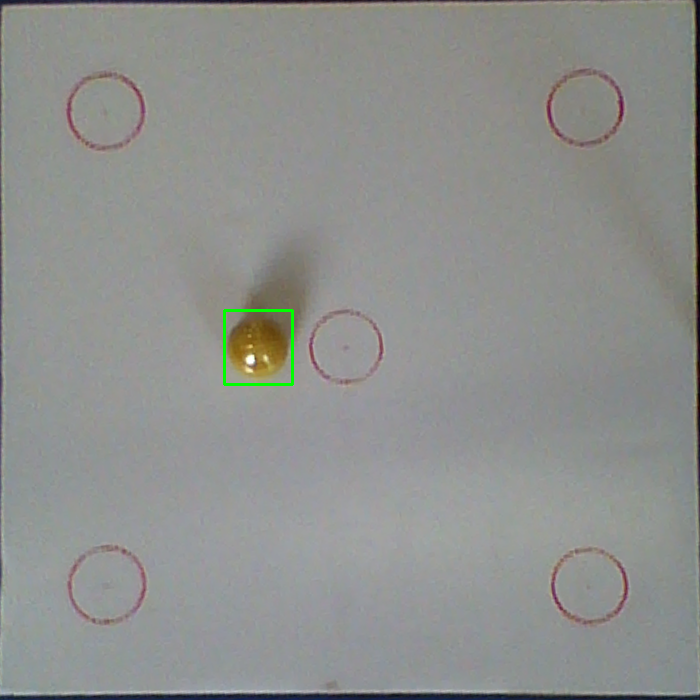
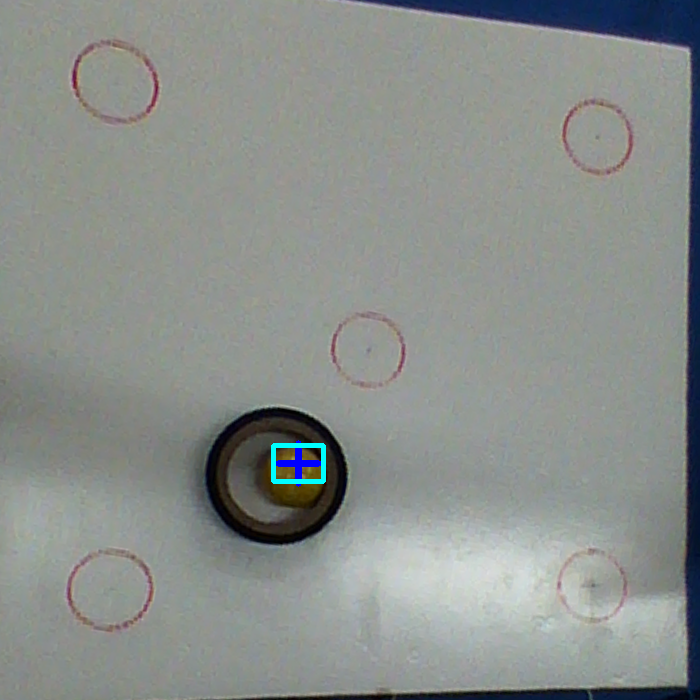
update

diff --git a/visual.py b/visual.py
@@ -1,6 +1,10 @@
 import cv2 as cv  
 import numpy as np 
 import serial
+from pid import PID 
+import time
+Pid = PID()
+
 
 
 def think(top_right,top_left,botto_left,botto_right,last_top_right,last_top_left,last_botto_left,last_botto_right):
@@ -19,11 +23,11 @@ def think(top_right,top_left,botto_left,botto_right,last_top_right,last_top_left
         error = 1
 
     src = np.float32([top_left,top_right,botto_left,botto_right])
-    
-   
+ 
+  
 
-lower = np.array([16, 98, 84])
-upper = np.array([155, 255 ,224])
+lower = np.array( [ 15, 127 ,106])
+upper = np.array([ 30 ,236 ,206]   )
 kernel = np.ones((5,5),np.uint8)
 cap = cv.VideoCapture(1)
 kernel = cv.getStructuringElement(cv.MORPH_CROSS,(9,9))
@@ -35,7 +39,7 @@ while True:
     ret,img = cap.read()
     canvas = np.copy(img)
     canvas1 = np.copy(img)
-    
+  
     img = cv.cvtColor(img,cv.COLOR_BGR2GRAY)
     gray = cv.medianBlur(img,5) 
     edges = cv.Canny(gray, 20, 90, apertureSize = 3)
@@ -51,10 +55,10 @@ while True:
             epsilon = 0.1*cv.arcLength(cnt,True)
             approx = cv.approxPolyDP(cnt,epsilon,True)
             try:
-                top_right = approx[0]
-                top_left = approx[1]
-                botto_left = approx[2]
-                botto_right = approx[3]
+                top_right = approx[2]
+                top_left = approx[3]
+                botto_left = approx[0]
+                botto_right = approx[1]
                 if a == 0:   # 刚开始 设置过去变量  等异常时用
 
                     last_top_right = top_right
@@ -78,6 +82,7 @@ while True:
 
             M = cv.getPerspectiveTransform(src,dst)
             img = cv.warpPerspective(canvas1,M,(700,700))
+            img = cv.flip(img,0)
             canvas3 = np.copy(img)
             img = cv.cvtColor(img,cv.COLOR_BGR2HSV)
             img = cv.inRange(img,lower,upper)
@@ -89,10 +94,18 @@ while True:
                 x,y,w,h = cv.boundingRect(cnt)
                 area = w*h
                 if area > 1000 :
-                    #print("x:",x,"y:",y)
-                    canvas3 = cv.rectangle(canvas3,(x,y),(x+w,y+h),(0,255,0),2)
-                    continue
-                           
+                    x_cen = int(x+w/2)
+                    y_cen = int(y+h/2)
+                    #print("x:",x_cen,"y:",y_cen)
+                    
+                    canvas3 = cv.line(canvas3,(x_cen-20,y_cen),(x_cen+20,y_cen),(255,0,0),5)
+                    canvas3 = cv.line(canvas3,(x_cen,y_cen-20),(x_cen,y_cen+20),(255,0,0),5)
+                    canvas3 = cv.rectangle(canvas3,(x,y),(x+w,y+h),(255,255,0),3)
+                    Pid.pid_x(x_cen) 
+                    Pid.pid_y(y_cen)
+                    #Pid.print_pwm()  
+                    Pid.send_pwm()
+                    
 
     cv.imshow("canvas",canvas3)
     key = cv.waitKey(1)

diff --git a/pid.py b/pid.py
@@ -1,0 +1,74 @@
+import math
+import numpy 
+import serial
+ser = serial.Serial('/dev/ttyUSB0',115200)
+class PID():
+
+    def __init__(self):
+        
+        self.kp_x = 0.3
+        self.ki_x = 0
+        self.kd_x = 0
+        self.kp_y = 1
+        self.ki_y = 0
+        self.kd_y = 0
+        
+        self.x_target = 355
+        self.y_target = 335
+
+        self.last_bias_x = 0
+        self.intergral_bias_x = 0
+        
+        self.last_bias_y = 0
+        self.intergral_bias_y = 0
+
+        self.pwm_y = 0
+        self.pwm_x = 0
+
+    def pid_x(self,coordinate_x):
+
+        bias = self.x_target - coordinate_x 
+        self.intergral_bias_x += bias
+        self.pwm_x = self.kp_x*bias + self.ki_x*self.intergral_bias_x + self.kd_x*(bias - self.last_bias_x)
+        self.last_bias_x = bias 
+        
+
+
+    def pid_y(self,coordinate_y):
+        
+        bias = self.y_target - coordinate_y 
+        self.intergral_bias_y += bias
+        self.pwm_y = self.kp_y*bias + self.ki_y*self.intergral_bias_x + self.kd_y*(bias - self.last_bias_y)
+        self.last_bias_y = bias 
+        
+
+    def print_pwm(self):
+        print("pwmx:",self.pwm_x,"pwmy:",self.pwm_y)
+
+    def send_pwm(self):
+        servo1 = 1000
+        if self.pwm_x >0:
+            servo1 = int(servo1 + self.pwm_x)
+
+        if self.pwm_x <0:
+            servo1 = int(servo1 + self.pwm_x)
+
+        if servo1 <1000:
+            servo1 = '0'+str(servo1)
+        else:
+            servo1 = str(servo1)
+        print(servo1)
+        if self.pwm_x >0:
+
+            bbb = "1000"+ "1100"
+        if self.pwm_x <0:
+
+            bbb = "1000"+ "0900"
+        
+        ser.write(bbb.encode())
+        
+        
+
+
+    
+

diff --git a/pidcheck.py b/pidcheck.py
@@ -1,0 +1,47 @@
+import numpy as np 
+import matplotlib.pyplot as plt
+
+kp = 2
+ki = 2
+kd = 6
+
+encode = None
+
+intergral_bias = 0
+last_bias = 0
+
+def pid(encode,Target):
+    global intergral_bias
+    global kp
+    global ki 
+    global kd 
+    global last_bias
+
+    bias = Target - encode 
+    intergral_bias += bias
+    pwm = kp*bias + ki*intergral_bias+kd*(bias - last_bias)
+    last_bias = bias
+
+    return pwm
+
+
+if __name__ == "__main__":
+
+
+    i = 0
+    encode_recode = []
+    encode = 0
+    while True:
+
+        Target = 200
+        pwm = pid(encode,Target)
+        encode += pwm*0.1
+        encode_recode.append(encode)
+        i+=1
+        
+        if i ==200:
+            #print(encode_recode)
+            break
+    plt.plot(encode_recode)
+    plt.show()    
+

diff --git a/serialcheck.py b/serialcheck.py
@@ -1,0 +1,16 @@
+import numpy as np 
+import serial
+import time
+
+# 舵机调试代码
+ser = serial.Serial('/dev/ttyUSB0',115200)
+while True:
+
+  a = input('servo1\n')
+  b = input('servo2\n')
+
+
+
+ 
+  bbb = a + b
+  ser.write(bbb.encode())

diff --git a/check.py b/check.py
@@ -1,0 +1,12 @@
+import math
+
+x = 15
+y = 15
+
+l1 = 10
+l2 = 10
+
+b =  (l1**2+l2**2 -x**2-y**2) / (2*l1*l2)
+c= l1**2
+print(b)
+
